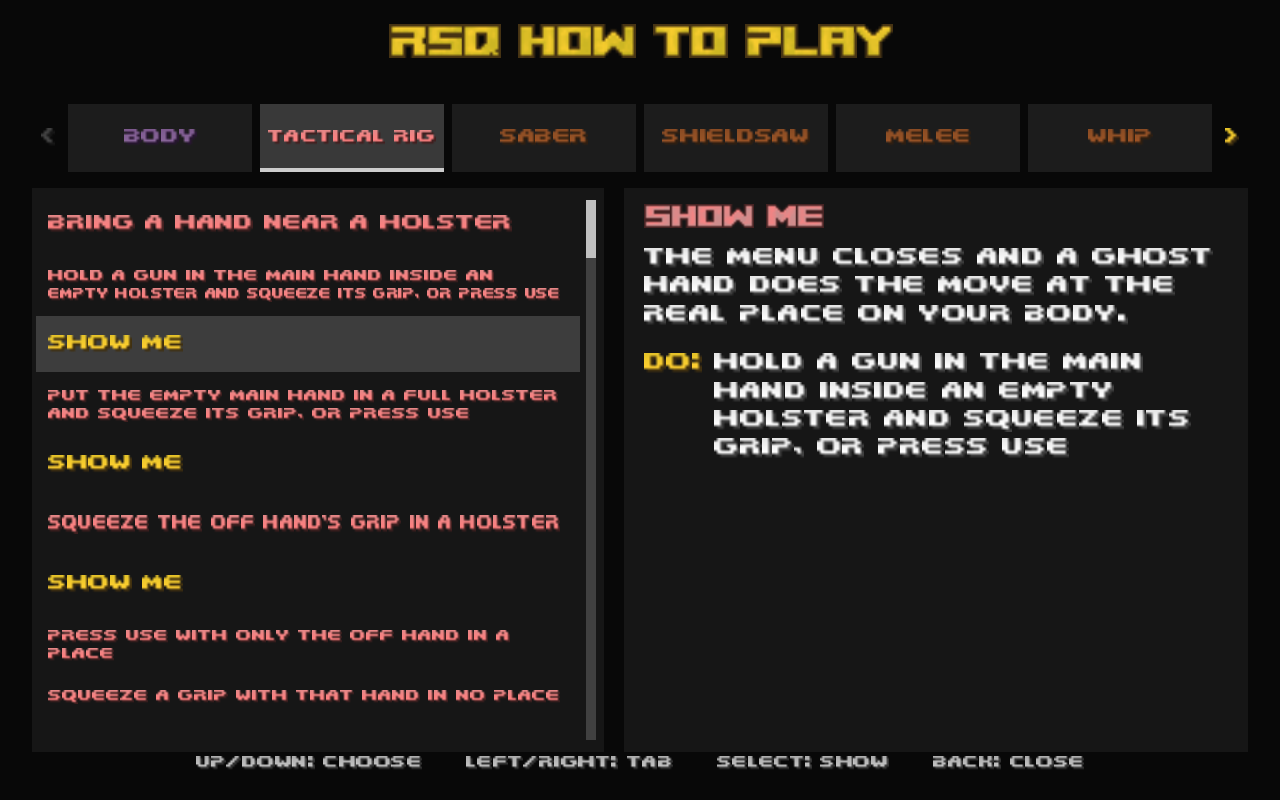
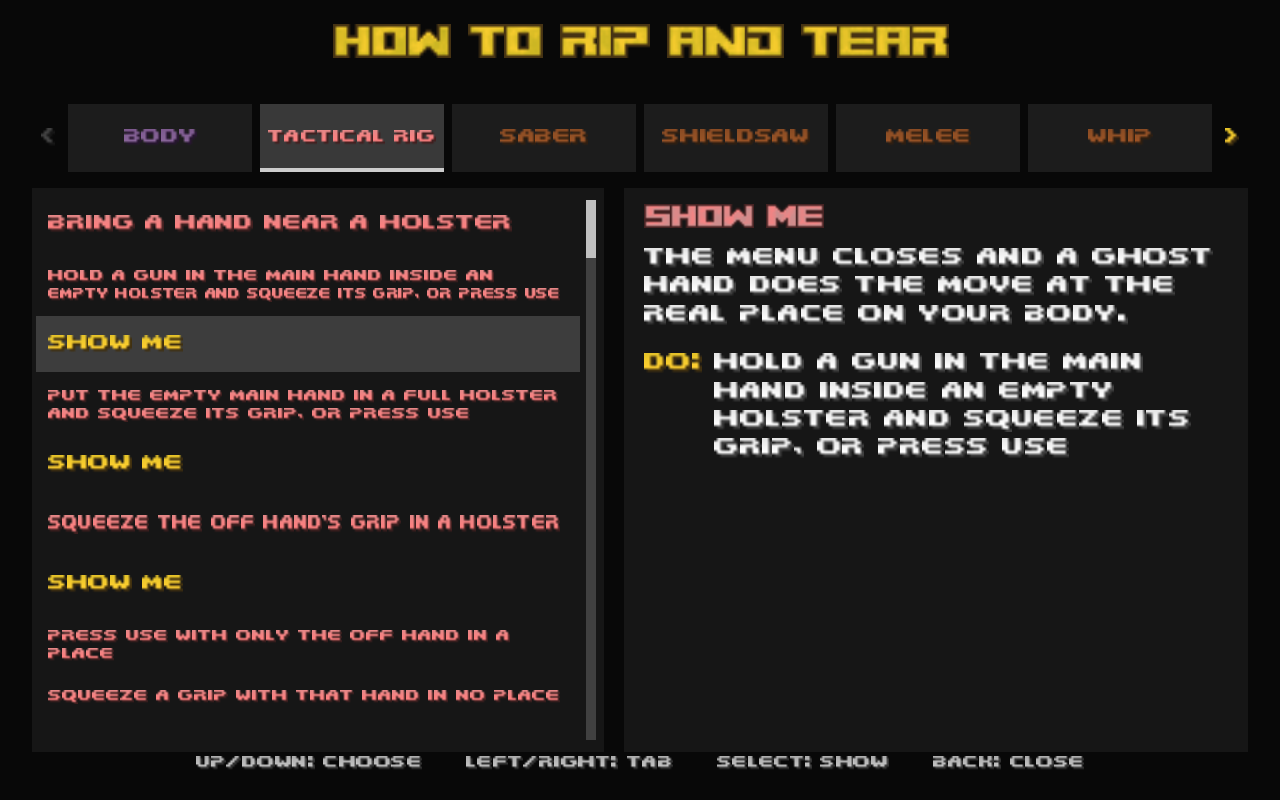
How To Play: the page's title is HOW TO RIP AND TEAR (owner; the Options row stays How To Play)
Claude-Session: https://claude.ai/code/session_01Me4ZUoe6wpgqJcGbSc3nSE

Changed region(s): [[0.25, 0.0312, 0.75, 0.0938]]

diff --git a/tools/howtoplay/preview.py b/tools/howtoplay/preview.py
@@ -284,7 +284,7 @@ def draw(T, R, stops, stop, sel):
     top = max(0, min(sel - rows + 1, len(shown) - rows)) if sel >= rows else 0
     first = max(0, min(ct - TABSHOWN + 1, len(T) - TABSHOWN)) if ct >= TABSHOWN else 0
 
-    P.txt(BIG, "RSScore_Gold", (VW - BIG.width("RSQ HOW TO PLAY") * 1.4) / 2, 12, "RSQ HOW TO PLAY", 1.4)
+    P.txt(BIG, "RSScore_Gold", (VW - BIG.width("HOW TO RIP AND TEAR") * 1.4) / 2, 12, "HOW TO RIP AND TEAR", 1.4)
     nt = len(T)
     if nt > TABSHOWN:
         x0, tw = LISTX + ARROW, (VW - 2 * LISTX - 2 * ARROW) / TABSHOWN

diff --git a/design/HOWTOPLAY_BUILD.md b/design/HOWTOPLAY_BUILD.md
@@ -96,3 +96,6 @@ Edit the template, never a copy. A new mod: add it to `MODS` in the generator, t
 4. Show On My Body: the mirror appears with Mirror set to Off, stands 10 s, the right rings lit; the hand spheres.
 5. The first-run toast: 5 s into a new game, once; is ~1.5 s (VisualRewards' toast hold) long enough to read?
 6. Text size in the headset: list 1.35, detail 1.6 shrinking to 1.0 only for the longest rows, Body list 1.2.
+
+Owner 2026-11-27 09:44: the page title is "HOW TO RIP AND TEAR" (title only). The Options row, the new-game toast and
+the docs keep "How To Play" so players can find it.
